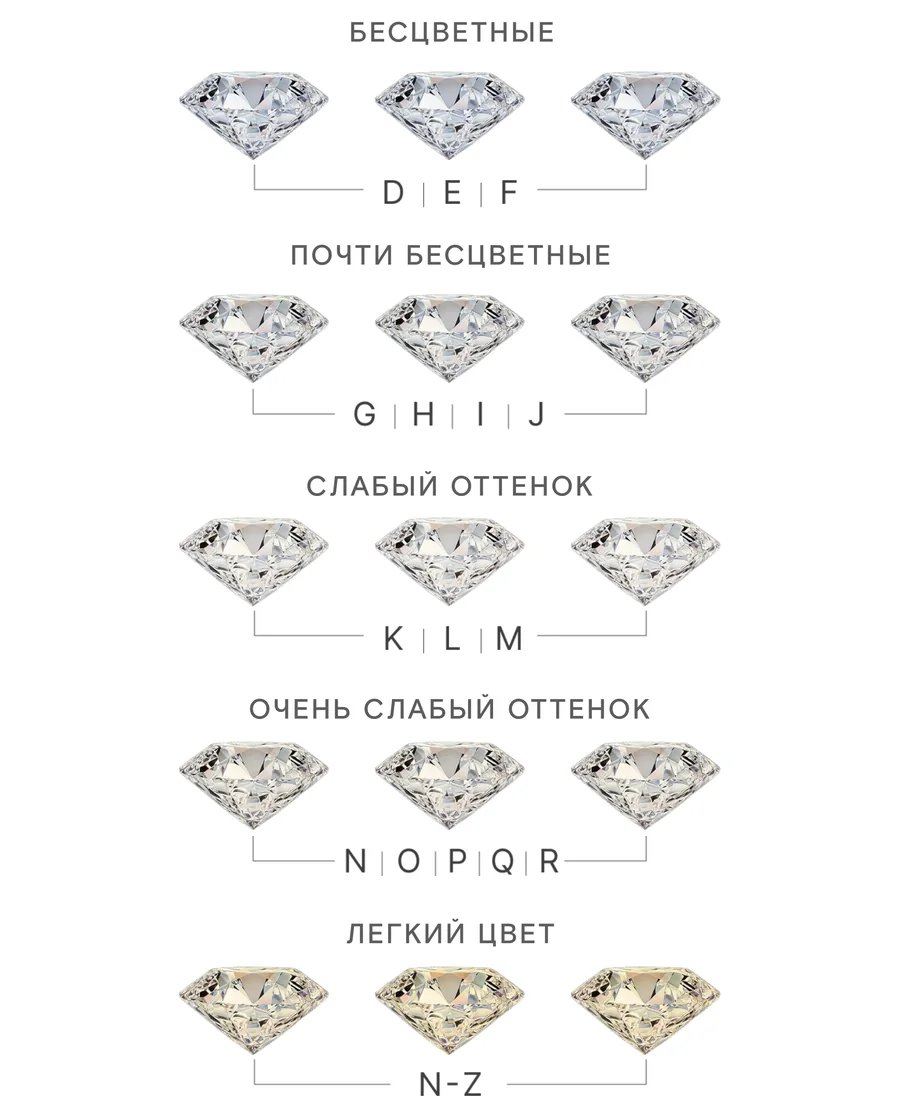
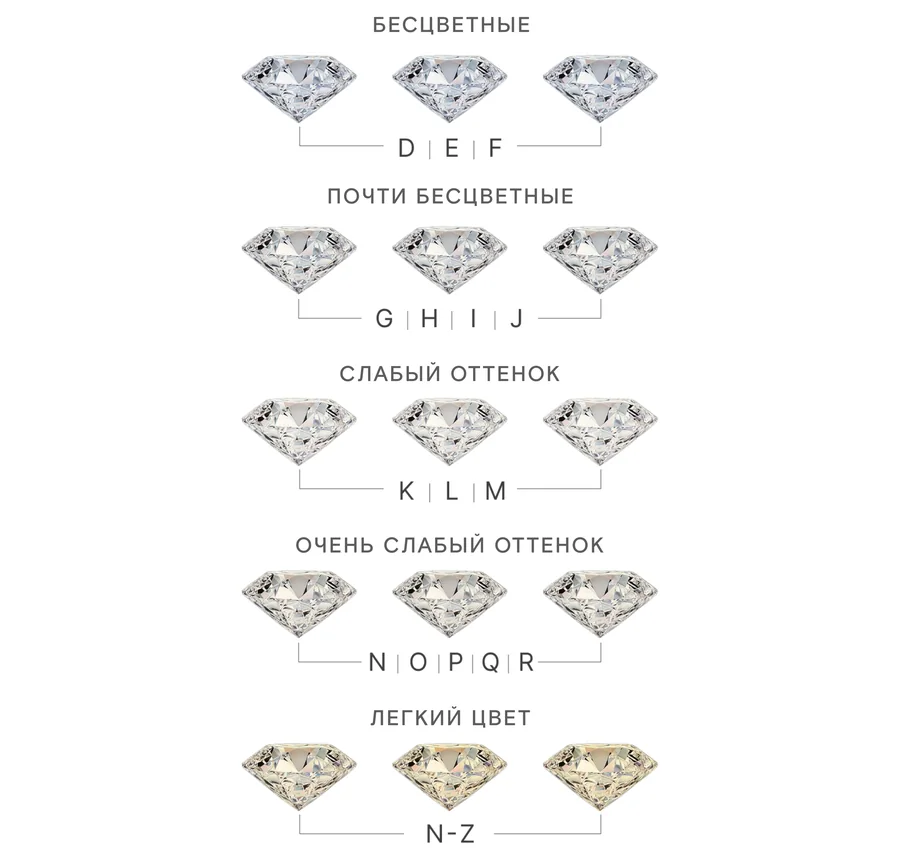
Калькулятор: два кадра под ползунком, сетка 4C 2×2
Ползунок вернулся на всю ширину, под ним ряд из двух кадров: слева
изделие, справа каратность на человеке. Пара задаётся словарём PAIR,
потому что она не выводится из данных: у браслета справа стоит групповой
кадр с подписанными каратами, у колье оба кадра на человеке — размер
камня там ни о чём не говорит, — а у пусет с фантазийной огранкой схемы
каратности нет вовсе, и единственный кадр занимает половину ряда.

Кадры выровнены по центру: полоса из трёх колец в несколько раз ниже
портрета рядом, и прижатая вверх она висела в углу пустой половины.
На узких экранах кадры идут друг под другом — в ряд они ужимались
примерно до 170 px, и подписи каратов становились нечитаемы.

Блок 4C — строго 2×2, а не «сколько влезет». Все четыре снимка приведены
к одному размеру 900×855: обрезать нельзя, на каждом шкала, поэтому кадр
вписывается целиком, а поле добирается цветом его же фона — у сравнения
веса он серый, у остальных белый, стыка не видно.

Схемы размеров для браслета и колье и групповой кадр колье больше
не нужны и из сборки убраны.

diff --git a/assets/js/calculator.js b/assets/js/calculator.js
@@ -184,35 +184,68 @@
     p.hidden = !note;
   }
 
-  // Размеры кадров изделий. Пропорции у групповых кадров разные — от
-  // почти квадрата до полосы 5:1, — поэтому размер проставляется в
-  // атрибуты, иначе при переключении исполнения вёрстка скачет, пока
-  // грузится файл. Числа печатает tools/prepare_images.py.
-  var ITEM_BOX = {
-    'soliter-round':   [720, 346],
-    'pave-round':      [720, 364],
-    'soliter-fancy':   [720, 175],
-    'pave-fancy':      [720, 166],
-    'soliter-fancy-yellow': [720, 205],
-    'pave-fancy-yellow':    [720, 207],
-    'doroshka':        [641, 560],
-    'studs-round':     [720, 134],
-    'studs-fancy':     [583, 560],
-    'studs-yellow':    [720, 180],
-    'tennis-bracelet': [579, 560],
-    'tennis-necklace': [539, 560],
+  // Размеры всех кадров. Пропорции разные — от полосы 5:1 до портрета,
+  // поэтому размер проставляется в атрибуты, иначе при переключении
+  // исполнения вёрстка скачет, пока грузится файл. Числа печатает
+  // tools/prepare_images.py, менять их надо вместе.
+  var IMG = {
+    'item-soliter-round':        [720, 346],
+    'item-pave-round':           [720, 364],
+    'item-soliter-fancy':        [720, 175],
+    'item-pave-fancy':           [720, 166],
+    'item-soliter-fancy-yellow': [720, 205],
+    'item-pave-fancy-yellow':    [720, 207],
+    'item-doroshka':             [641, 560],
+    'item-studs-round':          [720, 134],
+    'item-studs-fancy':          [583, 560],
+    'item-studs-yellow':         [720, 180],
+    'item-tennis-bracelet':      [579, 560],
+    'size-ring':                 [900, 981],
+    'size-studs':                [900, 720],
+    'worn-bracelet':             [900, 1350],
+    'worn-necklace':             [900, 1550],
+    'worn-necklace-2':           [900, 1351],
   };
 
-  // Схема размеров: собственные размеры кадров и место показа.
-  // Рядом с ползунком стоят те изделия, у которых на схеме подписаны
-  // караты, — она читается как продолжение шкалы веса.
-  var SIZE_REF = {
-    ring:     [900, 981],
-    studs:    [900, 720],
-    bracelet: [900, 1234],
-    necklace: [900, 1550],
+  // Пара кадров под ползунком: слева и справа. Второго может не быть.
+  // У браслета и колье схемы каратности нет: у браслета справа стоит
+  // групповой кадр с подписанными каратами, у колье оба кадра — на
+  // человеке, потому что размер камня там ни о чём не говорит.
+  var PAIR = {
+    'soliter-round':        ['item-soliter-round',        'size-ring'],
+    'soliter-fancy':        ['item-soliter-fancy',        'size-ring'],
+    'soliter-fancy-yellow': ['item-soliter-fancy-yellow', 'size-ring'],
+    'pave-round':           ['item-pave-round',           'size-ring'],
+    'pave-fancy':           ['item-pave-fancy',           'size-ring'],
+    'pave-fancy-yellow':    ['item-pave-fancy-yellow',    'size-ring'],
+    'doroshka':             ['item-doroshka',             'size-ring'],
+    'studs-round':          ['item-studs-round',          'size-studs'],
+    'studs-fancy':          ['item-studs-fancy',          null],
+    'studs-yellow':         ['item-studs-yellow',         'size-studs'],
+    'tennis-bracelet':      ['worn-bracelet',             'item-tennis-bracelet'],
+    'tennis-necklace':      ['worn-necklace',             'worn-necklace-2'],
   };
-  var BESIDE_SLIDER = { ring: true, studs: true, bracelet: true };
+
+  // Подпись к кадру для тех, кто не видит картинок. У кадров изделия
+  // она собирается из названия исполнения, поэтому здесь только общие.
+  var ALT = {
+    'size-ring': 'Сравнение размеров бриллиантов на руке: от 0,5 до 3 карат',
+    'size-studs': 'Сравнение размеров бриллиантов на ухе: от 0,5 до 3 карат',
+    'worn-bracelet': 'Теннисные браслеты на руке',
+    'worn-necklace': 'Теннисное колье на шее',
+    'worn-necklace-2': 'Теннисное колье на шее',
+    'item-tennis-bracelet': 'Теннисные браслеты разной каратности: 2, 3 и 5,7 карата',
+  };
+
+  function setPhoto(el, name) {
+    // Кадра может не быть — тогда прячем и не грузим ничего лишнего.
+    el.parentNode.hidden = !name;
+    if (!name) return;
+    el.src = '../assets/img/cuts/' + name + '.webp';
+    var box = IMG[name];
+    if (box) { el.width = box[0]; el.height = box[1]; }
+    el.alt = ALT[name] || (product.name + ', ' + variant.name);
+  }
 
   // Подпись под кружком в натуральную величину. Есть только там, где
   // кадр показывает камень на человеке.
@@ -375,27 +408,12 @@
     updateWeightLabel();
     markTicks();
 
-    // Фото — конкретного изделия под выбранное исполнение (item-<id>),
-    // а не обобщённое по огранке: иначе у серёг показывалось кольцо.
-    var img = $('#cut-img');
-    img.src = '../assets/img/cuts/item-' + variant.id + '.webp';
-    img.alt = product.name + ', ' + variant.name;
-    var ib = ITEM_BOX[variant.id];
-    if (ib) { img.width = ib[0]; img.height = ib[1]; }
-
-    // Фото-референс размера — по типу изделия (рука / ухо / запястье / шея).
-    var ref = $('#size-ref');
-    ref.src = '../assets/img/cuts/size-' + product.id + '.webp';
-    ref.alt = 'Наглядное сравнение размеров бриллиантов: ' + product.name.toLowerCase();
-    // Размеры кадров разные, поэтому проставляем их в атрибуты: иначе при
-    // переключении изделия вёрстка скачет, пока грузится картинка.
-    var box = SIZE_REF[product.id];
-    if (box) { ref.width = box[0]; ref.height = box[1]; }
-    // У колец, пусет и браслета схема подписана теми же каратами, что стоят
-    // под ползунком, — её место рядом со шкалой. У колье такой шкалы на
-    // кадре нет, он просто показывает изделие на шее, и остаётся под фото.
-    var slot = $(BESIDE_SLIDER[product.id] ? '#weight-ref-slot' : '#preview-ref-slot');
-    if ($('#size-ref-fig').parentNode !== slot) slot.appendChild($('#size-ref-fig'));
+    // Пара кадров под ползунком. Когда правого нет, левый занимает
+    // половину ряда, а не растягивается во всю ширину.
+    var pair = PAIR[variant.id] || [];
+    setPhoto($('#pic-left'), pair[0]);
+    setPhoto($('#pic-right'), pair[1]);
+    $('#preview-row').classList.toggle('is-solo', !pair[1]);
     render();
   }
 

diff --git a/calculator/index.html b/calculator/index.html
@@ -116,32 +116,27 @@
           <p class="field__hint" id="grade-note"></p>
         </div>
 
-        <!-- Вес и схема размеров стоят в один ряд: у колец и пусет схема
-             подписана теми же каратами, что и точки под ползунком, и
-             читать их рядом естественнее. У браслета и колье схема
-             высокая — там она остаётся под фото изделия (слоты ниже,
-             элемент между ними переставляет скрипт). -->
-        <div class="weight-row">
-          <div class="field">
-            <label class="field__label" for="weight" id="weight-label">Вес камня</label>
-            <div class="range-val" id="weight-val">1 ct</div>
-            <input class="range" type="range" id="weight" min="1" max="3" step="0.05" value="1"
-                   aria-labelledby="weight-label" aria-describedby="weight-val">
-            <div class="range-ticks" id="range-ticks" role="group" aria-label="Веса из каталога"></div>
-          </div>
-          <div class="slot" id="weight-ref-slot"></div>
+        <div class="field">
+          <label class="field__label" for="weight" id="weight-label">Вес камня</label>
+          <div class="range-val" id="weight-val">1 ct</div>
+          <input class="range" type="range" id="weight" min="1" max="3" step="0.05" value="1"
+                 aria-labelledby="weight-label" aria-describedby="weight-val">
+          <div class="range-ticks" id="range-ticks" role="group" aria-label="Веса из каталога"></div>
         </div>
 
+        <!-- Под ползунком — два кадра в ряд: слева изделие, справа
+             каратность на человеке. Что именно в каждом, зависит от
+             исполнения и задано словарём PAIR в calculator.js: у браслета
+             и колье схемы каратности нет, там оба кадра на человеке, а у
+             пусет с фантазийной огранкой второго кадра нет вовсе. -->
         <div class="preview-row" id="preview-row">
           <div class="cut-preview">
-            <img id="cut-img" class="cut-preview__photo" width="560" height="560" alt="" loading="lazy" decoding="async">
+            <img id="pic-left" class="cut-preview__photo" width="720" height="346" alt="" loading="lazy" decoding="async">
           </div>
-          <div class="slot" id="preview-ref-slot"></div>
+          <div class="cut-preview" id="pic-right-wrap">
+            <img id="pic-right" class="cut-preview__photo" width="900" height="981" alt="" loading="lazy" decoding="async">
+          </div>
         </div>
-
-        <figure class="size-ref" id="size-ref-fig">
-          <img id="size-ref" class="size-ref__img" width="900" height="981" alt="" loading="lazy" decoding="async">
-        </figure>
 
         <!-- Кружок рисуется в натуральную величину: 1 мм ≈ 3,8 px.
              Справочная строка «0,5 карата — 5 мм» показывается только
@@ -198,21 +193,21 @@
       <p class="lead">При выборе бриллианта важно учитывать несколько ключевых характеристик, которые определяют его ценность и красоту.</p>
       <div class="edu-grid">
         <figure class="edu-card">
-          <img src="../assets/img/cuts/edu-carat.webp" width="700" height="804" alt="Сравнение веса бриллиантов на примере серёг-пусет" loading="lazy" decoding="async">
+          <img src="../assets/img/cuts/edu-carat.webp" width="900" height="855" alt="Сравнение веса бриллиантов на примере серёг-пусет" loading="lazy" decoding="async">
           <figcaption>
             <b class="edu-card__title">Carat, вес</b>
             Вес бриллианта измеряется в каратах, и каждый карат — это 0,2 грамма. Но помните, что размер камня — не главный показатель его великолепия.
           </figcaption>
         </figure>
         <figure class="edu-card">
-          <img src="../assets/img/cuts/edu-cut.webp" width="1100" height="863" alt="Двенадцать форм огранки бриллианта с названиями" loading="lazy" decoding="async">
+          <img src="../assets/img/cuts/edu-cut.webp" width="900" height="855" alt="Двенадцать форм огранки бриллианта с названиями" loading="lazy" decoding="async">
           <figcaption>
             <b class="edu-card__title">Cut, огранка</b>
             Правильная огранка делает бриллиант настоящим произведением искусства, позволяя свету проникать в камень и возвращаться обратно, создавая тот самый завораживающий блеск. Огранка — самая важная характеристика, поэтому я предлагаю бриллианты только с огранкой Excellent или Very Good.
           </figcaption>
         </figure>
         <figure class="edu-card">
-          <img src="../assets/img/cuts/edu-color.webp" width="900" height="1112" alt="Шкала цвета бриллиантов от D до Z" loading="lazy" decoding="async">
+          <img src="../assets/img/cuts/edu-color.webp" width="900" height="855" alt="Шкала цвета бриллиантов от D до Z" loading="lazy" decoding="async">
           <figcaption>
             <b class="edu-card__title">Color, цвет</b>
             Чем меньше цветового оттенка в бриллианте, тем выше его ценность. Идеальные бриллианты совершенно бесцветны и классифицируются буквами от D, абсолютно бесцветного, до Z с явными оттенками.

diff --git a/assets/css/pages.css b/assets/css/pages.css
@@ -268,40 +268,33 @@
 
 /* ── Предпросмотр огранки в калькуляторе ── */
 /* Фото изделия и схема каратности — в один ряд, равными долями. */
+/* По центру, а не по верхнему краю: кадр изделия — широкая полоса
+   в несколько раз ниже портрета рядом, и прижатый вверх он висел
+   в углу пустой половины ряда. */
 .preview-row {
-  display:flex; gap:clamp(12px,2vw,24px); align-items:flex-start;
+  display:flex; gap:clamp(12px,2vw,24px); align-items:center;
   margin:8px 0 4px;
 }
-/* Схему в ряд отдаёт слот с display:contents, поэтому она не попадает
-   под `> *` — перечисляем оба элемента ряда явно. */
-.preview-row > *, .preview-row .size-ref { flex:1 1 0; min-width:0; margin:0 }
-/* Фото изделия обрезано по самому изделию, лишнего поля в нём нет,
-   поэтому ограничивать ширину не нужно: узкая полоса из трёх колец
-   и во всю колонку остаётся невысокой. */
-.cut-preview__photo, .size-ref__img { display:block; border-radius:2px }
-.size-ref__img { width:100%; height:auto }
-/* Фото изделия — по ширине колонки, но не выше 400 px. Пропорции у
-   групповых кадров разные: полоса из трёх колец и во всю ширину
-   остаётся низкой, а почти квадратный кадр браслета без ограничения
-   занимал бы пол-экрана. */
-.cut-preview__photo { max-width:100%; max-height:400px; width:auto; height:auto }
-/* Слот показа: display:contents убирает лишний уровень, и картинка
-   становится прямым элементом ряда. Пустой слот не занимает места,
-   поэтому ряд не приходится переключать классами. */
-.slot { display:contents }
-
-/* ── Вес камня и схема размеров в один ряд ── */
-/* Схема подписана теми же каратами, что стоят точками под ползунком:
-   рядом они читаются как одна шкала. Ползунок при этом становится
-   короче — во всю колонку он обещал плавность, которой за пятью
-   табличными точками нет. */
-.weight-row { display:flex; gap:clamp(16px,2.5vw,32px); align-items:flex-start }
-.weight-row .field { flex:1 1 auto; min-width:0 }
-.weight-row .size-ref { flex:0 0 clamp(150px,26%,240px); margin:0 }
-@media (max-width:560px) {
-  .weight-row { flex-direction:column }
-  .weight-row .size-ref { flex:none; align-self:center; max-width:260px }
+.preview-row > * { flex:1 1 0; min-width:0; margin:0 }
+/* Кадры вписываются по ширине своей половины, но не выше 440 px:
+   у изделий пропорции разные — от полосы из трёх колец до портрета
+   на человеке, — и без потолка портрет растянул бы ряд на пол-экрана. */
+.cut-preview__photo {
+  display:block; border-radius:2px;
+  max-width:100%; max-height:440px; width:auto; height:auto;
 }
+/* Когда кадр один (пусеты фантазийной огранки), он занимает половину
+   ряда, как занимал бы в паре: во всю ширину такой снимок читается
+   как главное на странице, хотя это только иллюстрация. */
+.preview-row.is-solo > * { flex:0 1 50% }
+/* На телефоне в ряд оба кадра ужимаются примерно до 170 px, и подписи
+   каратов на схеме становятся нечитаемыми — там они идут друг под другом. */
+@media (max-width:560px) {
+  .preview-row { flex-direction:column; align-items:flex-start; gap:18px }
+  .preview-row > *, .preview-row.is-solo > * { flex:none; max-width:100% }
+  .cut-preview__photo { max-height:none }
+}
+
 .result__price-note { font-size:14px; color:var(--fg-2); opacity:.8; margin:8px 0 0 }
 .result.is-out .result__price { font-size:clamp(22px,2.6vw,28px) }
 #r-mm-row[hidden] { display:none }
@@ -314,11 +307,13 @@
 .edu .lead { max-width:60ch; margin-top:16px }
 .edu-grid {
   margin-top:clamp(32px,4vw,52px);
-  /* По две в ряд: в четырёх колонках подписи форм огранки и буквы
-     шкалы цвета становятся нечитаемыми. */
-  display:grid; grid-template-columns:repeat(auto-fit,minmax(min(100%,420px),1fr));
+  /* Строго две в ряд, то есть 2×2: в четырёх колонках подписи форм
+     огранки и буквы шкалы цвета становятся нечитаемыми, а «сколько
+     влезет» давало то три, то две — сетка выглядела случайной. */
+  display:grid; grid-template-columns:repeat(2,minmax(0,1fr));
   gap:clamp(24px,3vw,44px);
 }
+@media (max-width:720px) { .edu-grid { grid-template-columns:1fr } }
 .edu-card { margin:0 }
 .edu-card img {
   width:100%; height:auto; display:block; background:var(--bg-white);

diff --git a/tools/prepare_images.py b/tools/prepare_images.py
@@ -98,6 +98,24 @@ def photo(path, width, keep=1.0):
 
 
 
+def pad_to_box(im, box):
+    """Вписывает кадр целиком в box и добирает поле цветом его же фона.
+    Цвет берётся по медиане рамки в 12 px — по углам врут кадры, у которых
+    рисунок подходит вплотную к краю."""
+    w, h = box
+    edge = np.concatenate([
+        np.asarray(im)[:12].reshape(-1, 3), np.asarray(im)[-12:].reshape(-1, 3),
+        np.asarray(im)[:, :12].reshape(-1, 3), np.asarray(im)[:, -12:].reshape(-1, 3),
+    ])
+    bg = tuple(int(c) for c in np.median(edge, axis=0))
+
+    t = im.copy()
+    t.thumbnail(box, Image.LANCZOS)
+    out = Image.new('RGB', box, bg)
+    out.paste(t, ((w - t.width) // 2, (h - t.height) // 2))
+    return out
+
+
 def save(img, name, quality=84, lossless=False):
     p = os.path.join(OUT, name)
     kw = dict(lossless=True, method=6) if lossless else dict(quality=quality, method=6)
@@ -133,7 +151,8 @@ def main(src):
         'studs-fancy':     '31_sergi-pusety_fantazi_gruppa',
         'studs-yellow':    '29_sergi-pusety_zheltye_gruppa',
         'tennis-bracelet': '35_tennisny_braslet_gruppa',
-        'tennis-necklace': '38_tennisnoe_kolye_gruppa',
+        # У колье изделие показывают два кадра на человеке (worn-necklace),
+        # групповой снимок под него не нужен.
     }
     # Размеры печатаем: их же надо проставить в ITEM_BOX калькулятора,
     # иначе при переключении исполнения вёрстка скачет, пока грузится файл.
@@ -146,15 +165,16 @@ def main(src):
         total += n
         print('%-30s %-12s %6.0fКБ' % ('item-%s.webp' % vid, '%dx%d' % img.size, n / 1024))
 
-    # ── Фото-референс размера по типу изделия ──
-    # Третье число — доля кадра по высоте, которую оставляем. У браслетов
-    # нижняя четверть исходника — пустой тёмный фон: рядом с ползунком
-    # она только растягивает ряд. Остальные кадры берём целиком.
+    # ── Схема каратности: сколько камень занимает на человеке ──
+    # Третье число — доля кадра по высоте, которую оставляем.
+    # У браслета и колье такой схемы нет: там рядом с изделием стоит
+    # второй кадр на человеке (WORN ниже).
     SIZES = {
         'size-ring':     ('17_proportsii_razmery_brilliantov_na_ruke', 900, 1.0),
         'size-studs':    ('28_proportsii_razmery_na_ushe', 900, 1.0),
-        'size-bracelet': ('34_proportsii_braslety_karatnost', 900, 0.78),
-        'size-necklace': ('39_tennisnoe_kolye_na_shee_v2', 900, 1.0),
+        'worn-bracelet':   ('36_tennisnye_braslety_na_ruke', 900, 1.0),
+        'worn-necklace':   ('39_tennisnoe_kolye_na_shee_v2', 900, 1.0),
+        'worn-necklace-2': ('37_tennisnoe_kolye_na_shee', 900, 1.0),
     }
     for out_name, (name, width, keep) in SIZES.items():
         f = os.path.join(src, name + '.png')
@@ -166,21 +186,25 @@ def main(src):
         print('%-30s %-12s %6.0fКБ' % (out_name + '.webp', '%dx%d' % img.size, n / 1024))
 
     # ── Четыре характеристики камня (4C) ──
-    # Ровно четыре карточки: вес, огранка, цвет, чистота.
+    # Ровно четыре карточки: вес, огранка, цвет, чистота. Все четыре
+    # приводятся к одному размеру EDU_BOX — в сетке 2×2 снимки разной
+    # высоты выглядят как вёрстка, которая поехала. Обрезать нельзя:
+    # на каждом кадре шкала, и срезанный край — это потерянные градации.
+    # Поэтому кадр вписывается целиком, а поле добирается цветом его же
+    # фона (у сравнения веса он серый, у остальных белый) — стыка не видно.
+    EDU_BOX = (900, 855)
     EDU = {
-        'edu-carat':   ('07_sravnenie_vesa_brilliantov_sergi-pusety', 700),
-        'edu-cut':     ('08_ogranka_vse_formy', 1100),
-        'edu-color':   ('09_tsvet_shkala_polnaya', 900),
-        'edu-clarity': ('12_chistota_shkala_vklyucheniya', 900),
+        'edu-carat':   '07_sravnenie_vesa_brilliantov_sergi-pusety',
+        'edu-cut':     '08_ogranka_vse_formy',
+        'edu-color':   '09_tsvet_shkala_polnaya',
+        'edu-clarity': '12_chistota_shkala_vklyucheniya',
     }
-    for out_name, (name, width) in EDU.items():
+    for out_name, name in EDU.items():
         f = os.path.join(src, name + '.png')
         if not os.path.exists(f):
             print('НЕТ исходника:', name); continue
-        img = photo(f, width)
+        img = pad_to_box(Image.open(f).convert('RGB'), EDU_BOX)
         n = save(img, out_name + '.webp')
-        # Размер печатаем, чтобы его же проставить в width/height разметки —
-        # иначе вёрстка скачет при загрузке.
         total += n
         print('%-30s %-12s %6.0fКБ' % (out_name + '.webp', '%dx%d' % img.size, n / 1024))
 
